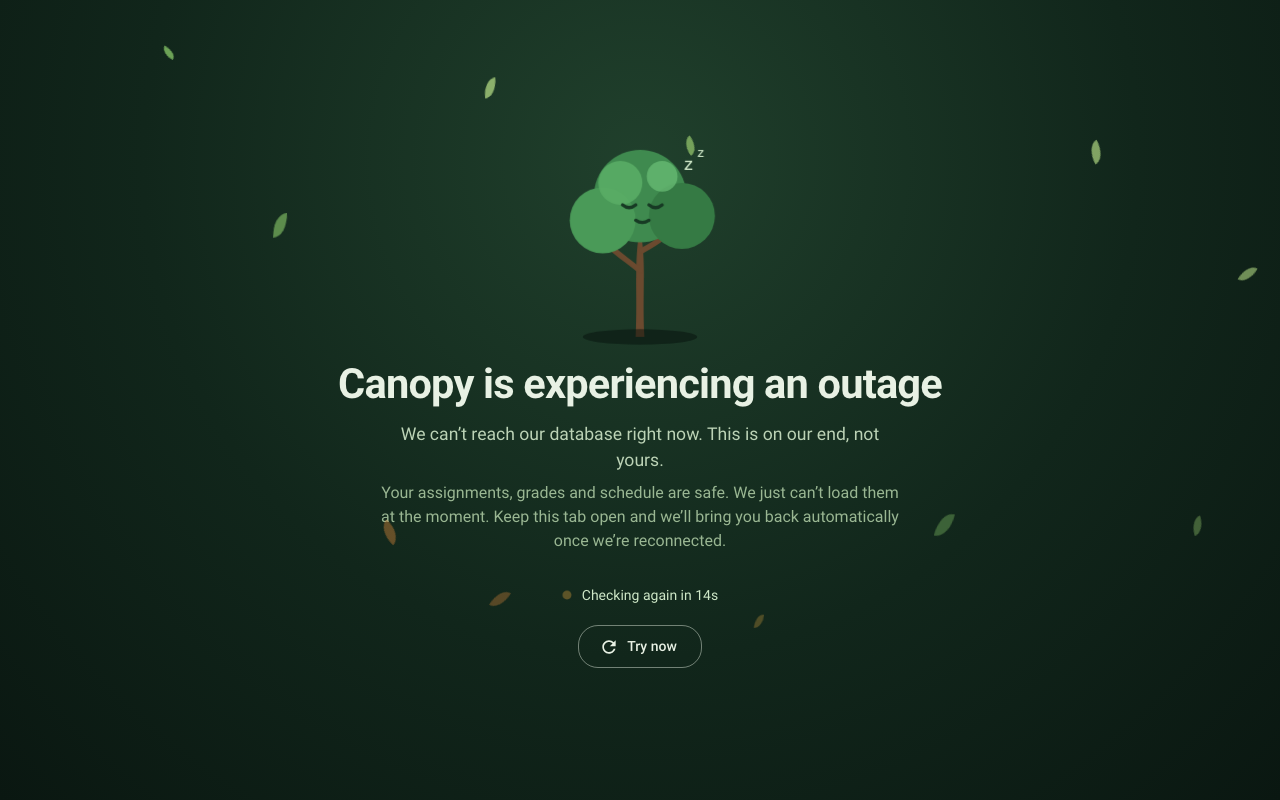
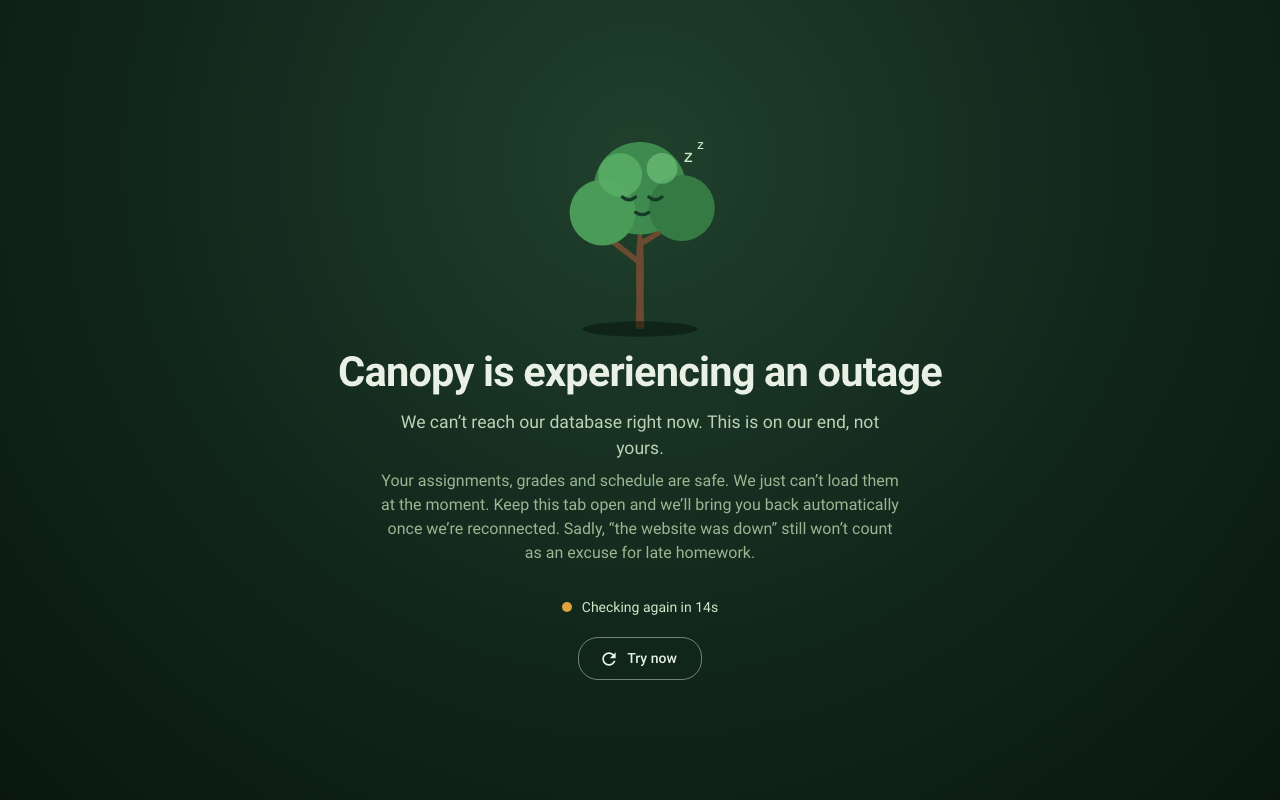
Outage screen: remove animations, add a dry one-line joke

diff --git a/src/components/OutageScreen.tsx b/src/components/OutageScreen.tsx
@@ -5,40 +5,10 @@ import Box from '@mui/material/Box';
 import Button from '@mui/material/Button';
 import Typography from '@mui/material/Typography';
 import RefreshIcon from '@mui/icons-material/Refresh';
-import { keyframes } from '@mui/material/styles';
 
 interface CurrentUser { id: string; username: string; role: string }
 
 const RETRY_SECONDS = 15;
-
-const sway = keyframes`
-  0%, 100% { transform: rotate(-1.6deg); }
-  50%      { transform: rotate(1.6deg); }
-`;
-const fall = keyframes`
-  0%   { transform: translate(0, -10vh) rotate(0deg); opacity: 0; }
-  10%  { opacity: 0.9; }
-  100% { transform: translate(var(--drift), 105vh) rotate(var(--spin)); opacity: 0.1; }
-`;
-const pulse = keyframes`
-  0%, 100% { opacity: 0.35; transform: scale(0.9); }
-  50%      { opacity: 1;    transform: scale(1.15); }
-`;
-const bob = keyframes`
-  0%, 100% { transform: translateY(0); }
-  50%      { transform: translateY(-6px); }
-`;
-
-// Deterministic leaf field (no Math.random → no hydration mismatch).
-const LEAVES = Array.from({ length: 14 }, (_, i) => ({
-  left: (i * 71 + 13) % 100,
-  size: 14 + ((i * 7) % 12),
-  delay: -((i * 1.9) % 16),
-  dur: 11 + ((i * 3) % 9),
-  drift: ((i % 2 ? 1 : -1) * (30 + ((i * 13) % 80))),
-  spin: 200 + ((i * 47) % 400),
-  hue: ['#7bb661', '#a3c97a', '#d9a441', '#e08a3c', '#8fbf6a'][i % 5],
-}));
 
 const MESSAGES = [
   'We can’t reach our database right now. This is on our end, not yours.',
@@ -105,34 +75,13 @@ export default function OutageScreen({ onRecovered }: { onRecovered: (user: Curr
         py: 6,
         color: '#e8f1e4',
         background: 'radial-gradient(ellipse at 50% 20%, #20402c 0%, #11261b 55%, #0a1711 100%)',
-        '@media (prefers-reduced-motion: reduce)': { '& *': { animation: 'none !important' } },
       }}
     >
-      {LEAVES.map((l, i) => (
-        <Box
-          key={i}
-          aria-hidden
-          sx={{
-            position: 'absolute',
-            top: 0,
-            left: `${l.left}%`,
-            width: l.size,
-            height: l.size * 0.62,
-            bgcolor: l.hue,
-            borderRadius: '0 100% 0 100%',
-            '--drift': `${l.drift}px`,
-            '--spin': `${l.spin}deg`,
-            animation: `${fall} ${l.dur}s linear ${l.delay}s infinite`,
-            pointerEvents: 'none',
-          }}
-        />
-      ))}
-
-      <Box aria-hidden sx={{ animation: `${bob} 5s ease-in-out infinite`, mb: 1 }}>
+      <Box aria-hidden sx={{ mb: 1 }}>
         <Box
           component="svg"
           viewBox="0 0 200 200"
-          sx={{ width: { xs: 170, sm: 220 }, height: 'auto', transformOrigin: '50% 95%', animation: `${sway} 6s ease-in-out infinite` }}
+          sx={{ width: { xs: 170, sm: 220 }, height: 'auto' }}
         >
           <path d="M96 190 C98 150 94 120 100 92 C106 120 102 150 104 190 Z" fill="#6b4a2f" />
           <path d="M100 130 C86 118 74 112 62 96" stroke="#6b4a2f" strokeWidth="5" fill="none" strokeLinecap="round" />
@@ -161,10 +110,11 @@ export default function OutageScreen({ onRecovered }: { onRecovered: (user: Curr
       <Typography sx={{ mt: 1, maxWidth: 520, color: '#9ab793' }}>
         Your assignments, grades and schedule are safe. We just can’t load them at the moment.
         Keep this tab open and we’ll bring you back automatically once we’re reconnected.
+        Sadly, “the website was down” still won’t count as an excuse for late homework.
       </Typography>
 
       <Box sx={{ mt: 4, display: 'flex', alignItems: 'center', gap: 1.25, color: '#cfe8c8' }}>
-        <Box sx={{ width: 10, height: 10, borderRadius: '50%', bgcolor: checking ? '#7bb661' : '#e0a23c', animation: `${pulse} 1.6s ease-in-out infinite` }} />
+        <Box sx={{ width: 10, height: 10, borderRadius: '50%', bgcolor: checking ? '#7bb661' : '#e0a23c', }} />
         <Typography variant="body2">
           {checking ? 'Checking the connection…' : `Checking again in ${seconds}s`}
         </Typography>

diff --git a/README.md b/README.md
@@ -64,7 +64,7 @@ Theme, accent color, school info, school breaks, and PowerSchool credentials —
 ### Outage screen
 Shown when the database can't be reached. It re-checks every 15 seconds and returns to the app automatically once the connection is back.
 
-![Outage screen](docs/screenshots/outage.gif)
+![Outage screen](docs/screenshots/outage.png)
 
 ---
 
